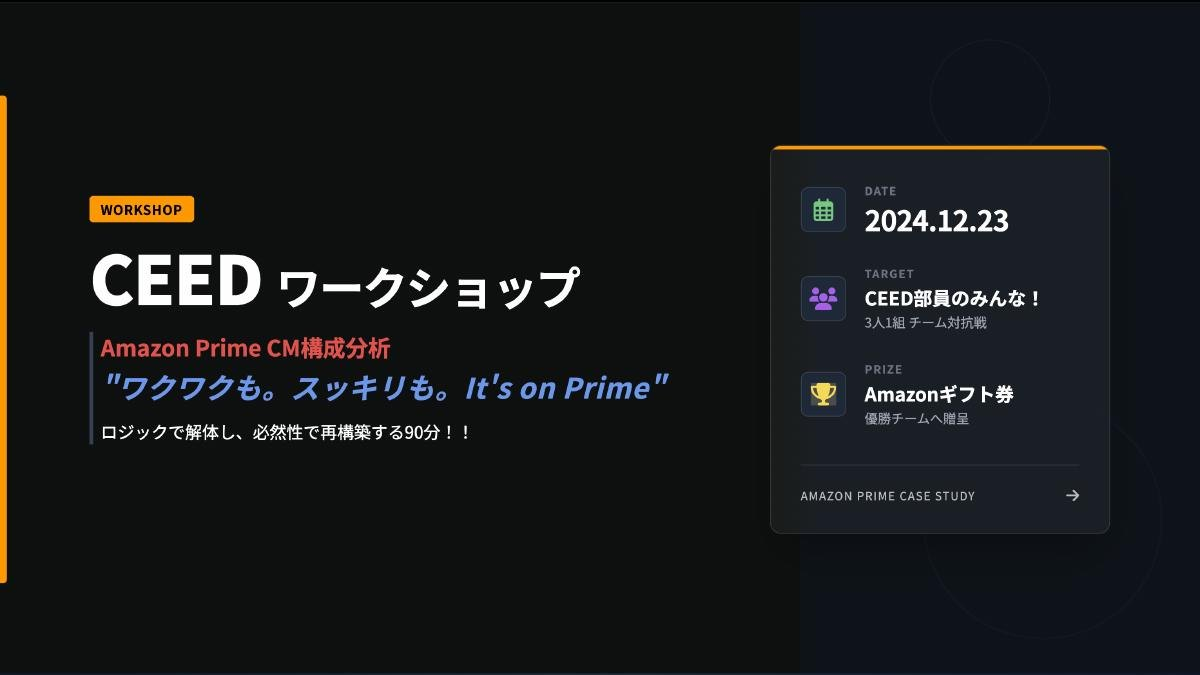
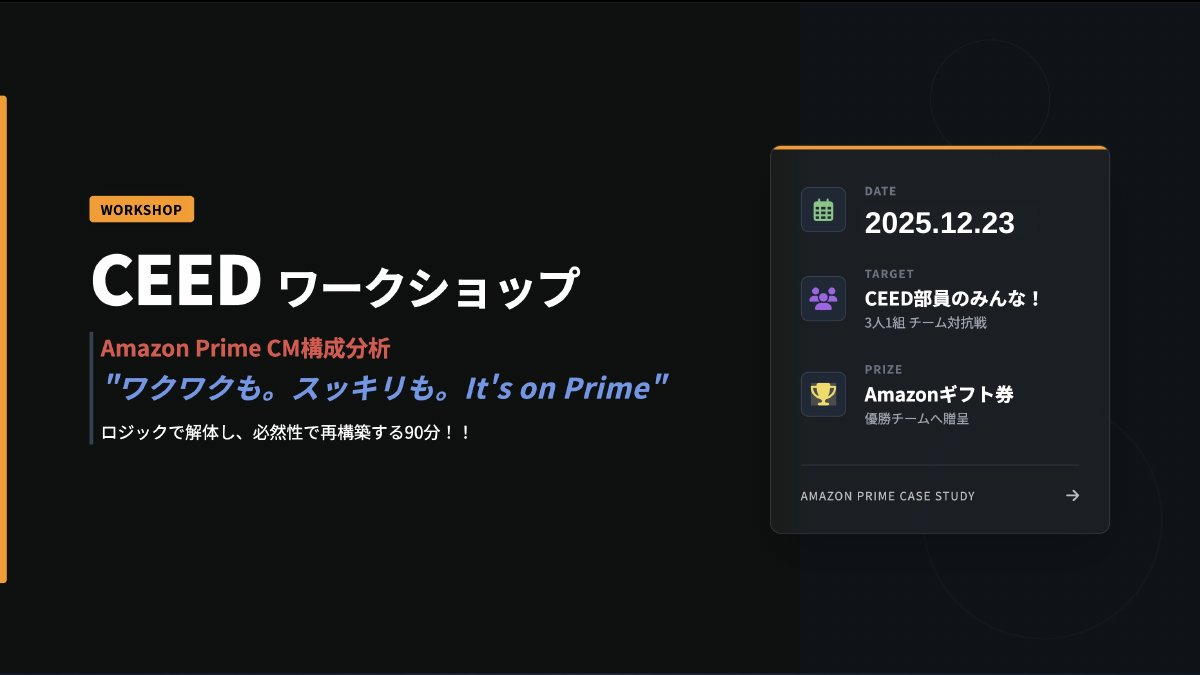
CEEDワークショップの表紙日付を2025年に修正

diff --git a/src/data/works.ts b/src/data/works.ts
@@ -459,7 +459,7 @@ export const works: Work[] = [
     thumb: "/assets/slides/slide-ceed-1.jpg",
     slideGroups: [
       { title: "CEED 新入生説明会（2026年度）", images: [1, 2, 3, 4].map((n) => `/assets/slides/slide-ceed-${n}.jpg`) },
-      { title: "Amazon Prime CM構成分析ワークショップ", images: [2, 3, 4, 5].map((n) => `/assets/slides/slide-ws-${n}.jpg`) },
+      { title: "Amazon Prime CM構成分析ワークショップ", images: [1, 2, 3, 4, 5].map((n) => `/assets/slides/slide-ws-${n}.jpg`) },
     ],
   },
   {
